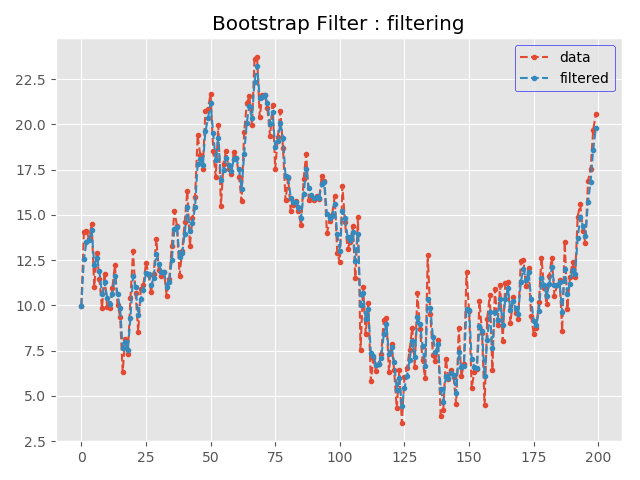
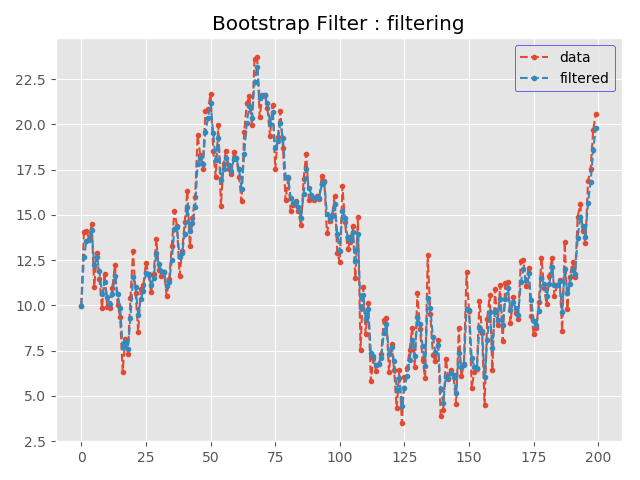
add new code

diff --git a/tsbook-code11_4.py b/tsbook-code11_4.py
@@ -1,0 +1,135 @@
+#!/usr/bin/env python3
+# -*- coding: utf-8 -*-
+"""
+===========================================================
+bootstrap filter to "ArtifitialLocalLevelModel.RData"
+===========================================================
+Created on Wed Aug  1 22:04:25 2018
+
+@author: narrowly
+"""
+import numpy as np
+import pandas as pd
+import scipy.stats as sct
+import random
+import pyper
+import matplotlib.pyplot as plt
+plt.style.use('ggplot')
+
+# 前処理
+np.random.seed(4521)
+N = 10000 # N_particle
+
+r = pyper.R(use_numpy='True', use_pandas='True')
+r("load('data/ArtifitialLocalLevelModel.RData')")
+y = r.get('y').astype(np.float64)
+t_max = r.get('t_max')
+mod = r.get('mod')
+
+# %% コード11-1
+# データの整形
+y = np.r_[np.nan, y]
+
+# リサンプリング用のインデックス列
+k = np.repeat(np.arange(N)[:, np.newaxis], t_max+1, axis=1)
+
+
+# 事前分布の設定
+# 粒子 (実現値)
+x = np.zeros(shape=(t_max+1, N))
+x[0,:] = np.random.normal(loc=mod["m0"] , scale=np.sqrt(mod["C0"][0][0]) , size=N)
+
+
+# 粒子(重み)
+w = np.zeros(shape=(t_max+1, N))
+w[0,:] = 1/N
+
+# 時間順方向の処理
+for tt in np.arange(t_max)+1 :
+    # 提案分布：状態方程式を使用。粒子を生成する。
+    x[tt,:] = np.random.normal(loc=x[tt-1,:], scale=np.sqrt(mod["V"][0][0]), size=N)
+    # 重みを更新。 bootstrap filterなので、観測方程式をそのまま使えば良い。
+    w[tt,:] = w[tt-1,:] * sct.norm.pdf(y[tt], loc=x[tt,:], scale=np.sqrt(mod["V"]))
+    # 重みの規格化
+    w[tt,:] = w[tt,:] / np.sum(w[tt,:])
+    
+    # リサンプリング
+    # リサンプリング用のインデックス列 (python3.6以降)
+    k[:,tt] = random.choices(np.arange(N), k=N, weights=w[tt,:])
+    # 粒子のリサンプリング：リサンプリング後のインデックス列を新たな通番とする。
+    x[tt,:] = x[tt, k[:, tt]]
+    # 重みのリセット
+    w[tt,:] = 1/N
+
+w = w[1:]; x = x[1:]; k = k[:, 1:]; y = y[1:]
+
+# =============================================================================
+#  ここまでコード11ー1
+# =============================================================================
+# %% ここからコード11-2
+# 未来時刻のデータ領域確保
+x = np.r_[x, np.zeros(shape=(10, N))]
+w = np.r_[w, np.zeros(shape=(10, N))]
+
+# 時間方向の処理
+for tt in np.arange(10)+t_max:
+    # 状態方程式から1step先の状態を生成
+    x[tt,:] = np.random.normal(loc=x[tt-1,:], scale=np.sqrt(mod["W"][0]), size=N)
+    # 粒子の重みはそのまま
+    w[tt,:] = w[tt-1,:]
+
+# =============================================================================
+# ここまでコード11-2
+# =============================================================================
+# %% ここからコード11-4
+# 試行(パス)の最大値
+path_max = 1 #500
+
+# プログレスバーは割愛
+
+# 平滑化粒子(実現値)を格納する配列
+b = np.zeros(shape = (t_max, N, path_max))
+
+# 平滑化粒子（重み）を格納する配列
+rho = np.zeros(shape = (t_max, N))
+rho[t_max-1, :] = w[t_max-1,:]
+
+# 試行（パス）分
+for path in range(path_max):
+    
+    b[t_max-1, :, path] = random.choices(x[t_max-1, :], k=N, weights=w[t_max-1,:])
+    
+    # 時間逆方向の処理
+    for tt in np.arange(t_max-1, 0, -1)-1:
+        # 重み
+        rho[tt, :] = w[tt,:] * sct.norm.pdf(b[tt+1, :, path], loc=x[tt,:], scale=np.sqrt(mod["W"]))
+        
+        # 重みの規格化
+        rho[tt, :] = rho[tt, :] / np.sum(rho[tt, :])
+        
+        # リサンプリング
+        # 再選択指標を求める
+        FFBSi_index = random.choices(np.arange(N), k=N, weights=rho[tt,:])
+        # 未来時刻の情報からフィルタリング粒子を再選択
+        b[tt, :, path] = x[tt, FFBSi_index]
+        # 重みをリセット
+        rho[tt, :] = 1/N
+
+# 各時刻の平滑化後平均値をプロット
+plt.figure(1)
+plt.plot(y, marker=".", linestyle="--")
+plt.plot(np.mean(np.mean(b, axis=2), axis=1), marker=".", linestyle="--")
+plt.title('Bootstrap Filter : smoothing(FFBSi)')
+plt.legend(["data", "smoothed"], frameon=True, edgecolor="b")
+plt.tight_layout(); plt.show()
+plt.savefig('result/mean_11-4.png')
+
+# 50%区間のプロット
+plt.figure(2)
+plt.plot(np.arange(t_max), y, marker=".", linestyle="--")
+plt.fill_between(np.arange(t_max), y1=np.percentile(b, 75, axis=(1,2)), 
+                 y2=np.percentile(b, 25, axis=(1,2)), facecolor="b", alpha=0.3)
+plt.title('Bootstrap Filter : smoothing(FFBSi)')
+plt.legend(["data", "smoothed"], frameon=True, edgecolor="b")
+plt.tight_layout(); plt.show()
+plt.savefig('result/percentile_11-4.png')

diff --git a/tsbook-code11_7.py b/tsbook-code11_7.py
@@ -1,0 +1,114 @@
+#!/usr/bin/env python3
+# -*- coding: utf-8 -*-
+"""
+===========================================================
+bootstrap filter to "ArtifitialLocalLevelModel.RData"
+===========================================================
+# 注意：元スクリプトに倣い、事前分布を時点0とし、本来の時点を＋１シフトして扱う
+Created on Sun Jul 29 16:04:29 2018
+
+@author: narrowly
+"""
+
+import numpy as np
+import pandas as pd
+import scipy.stats as sct
+import random
+import pyper
+import matplotlib.pyplot as plt
+plt.style.use('ggplot')
+
+# 前処理
+np.random.seed(21)
+N = 10000 # N_particle
+
+r = pyper.R(use_numpy='True', use_pandas='True')
+r("load('data/ArtifitialLocalLevelModel.RData')")
+y = r.get('y').astype(np.float64)
+t_max = r.get('t_max')
+mod = r.get('mod')
+
+# %% コード11-5
+##【logsumexp】
+# 線形領域での規格化(入力：対数値ベクトル, 出力：規格化後の対数値ベクトル)
+def normalize(l):
+    max_ind = np.argmax(l)
+    ind_rm = np.repeat(True, l.shape[0])
+    ind_rm[max_ind] = False
+    return l - l[max_ind] - np.log1p(np.sum(np.exp(l[ind_rm] - l[max_ind])))
+
+# %% コード11-6
+## 【系統リサンプリング】
+# <https://qiita.com/kenmatsu4/items/c5232b1499dfd00e877d>を参考に実装
+def F_inv(w_cumsum, ind, u):
+    if np.any(w_cumsum < u) == False:
+        k = 0
+    else:
+        k = np.max(ind[w_cumsum < u]) + 1
+    return k
+    
+def sys_resampling(N, w):
+    w = np.exp(w) # wを線形領域に戻す
+    w_cumsum = np.cumsum(w)
+    ind = np.arange(N)
+    u = np.linspace(0, 1 - (np.random.uniform(size=1)/N)[0], num = N) # 系統リサンプリング
+    #u = np.random.uniform(0, 1 - (np.random.uniform(size=1)/N), size=N) # 層化リサンプリング
+    k = np.array([F_inv(w_cumsum, ind, val) for val in u])
+    return k
+
+    
+# %% コード11-7 (コード11-1がベース)
+# データの整形
+y = np.r_[np.nan, y]
+
+# リサンプリング用のインデックス列
+k = np.repeat(np.arange(N)[:, np.newaxis], t_max+1, axis=1)
+
+
+# 事前分布の設定
+# 粒子 (実現値)
+x = np.zeros(shape=(t_max+1, N))
+x[0,:] = np.random.normal(loc=mod["m0"] , scale=np.sqrt(mod["C0"][0][0]) , size=N)
+
+
+# 粒子(重み)
+w = np.zeros(shape=(t_max+1, N))
+w[0,:] = np.log(1/N)
+
+# 時間順方向の処理
+for tt in np.arange(t_max)+1 :
+    # 提案分布：状態方程式を使用。粒子を生成する。
+    x[tt,:] = np.random.normal(loc=x[tt-1,:], scale=np.sqrt(mod["V"][0][0]), size=N)
+    # 重みを更新。 bootstrap filterなので、観測方程式をそのまま使えば良い。
+    w[tt,:] = w[tt-1,:] + sct.norm.logpdf(y[tt], loc=x[tt,:], scale=np.sqrt(mod["V"]))
+    # 重みの規格化
+    w[tt,:] = normalize(w[tt,:])
+    
+    # リサンプリング
+    # リサンプリング用のインデックス列
+    k[:,tt] = sys_resampling(N = N, w = w[tt,:])
+    # 粒子のリサンプリング：リサンプリング後のインデックス列を新たな通番とする。
+    x[tt,:] = x[tt, k[:, tt]]
+    # 重みのリセット
+    w[tt,:] = np.log(1/N)
+
+w = w[1:]; x = x[1:]; k = k[1:]; y = y[1:]
+
+# 各時刻の粒子平均値をプロット
+plt.figure(1)
+plt.plot(y, marker=".", linestyle="--")
+plt.plot(np.mean(x, axis=1), marker=".", linestyle="--")
+plt.title('Bootstrap Filter : filtering')
+plt.legend(["data", "filtered"], frameon=True, edgecolor="b")
+plt.tight_layout(); plt.show()
+plt.savefig("result/mean_11-7.png")
+
+# 50%区間のプロット
+plt.figure(2)
+plt.plot(np.arange(t_max), y, marker=".", linestyle="--")
+plt.fill_between(np.arange(t_max), y1=np.percentile(x, 75, axis=1), 
+                 y2=np.percentile(x, 25, axis=1), facecolor="b", alpha=0.3)
+plt.title('Bootstrap Filter : filtering')
+plt.legend(["data", "filtered"], frameon=True, edgecolor="b")
+plt.tight_layout(); plt.show()
+plt.savefig('result/percentile_11-7.png')
